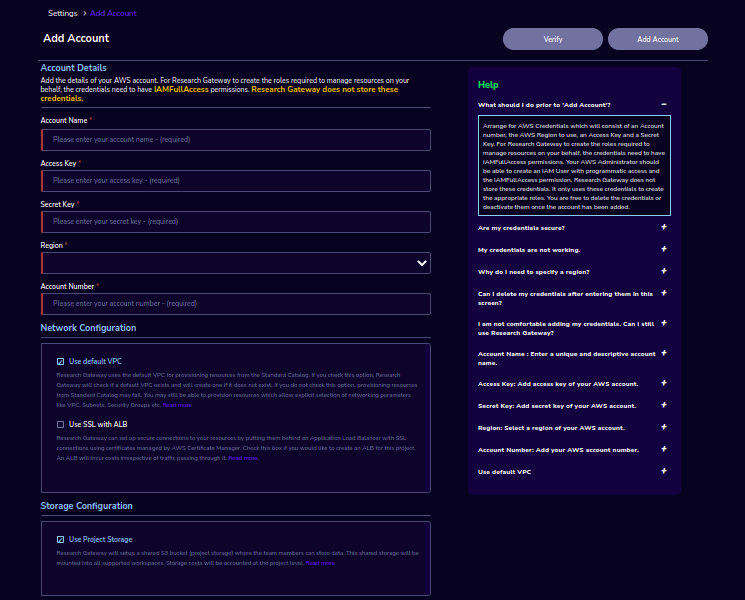
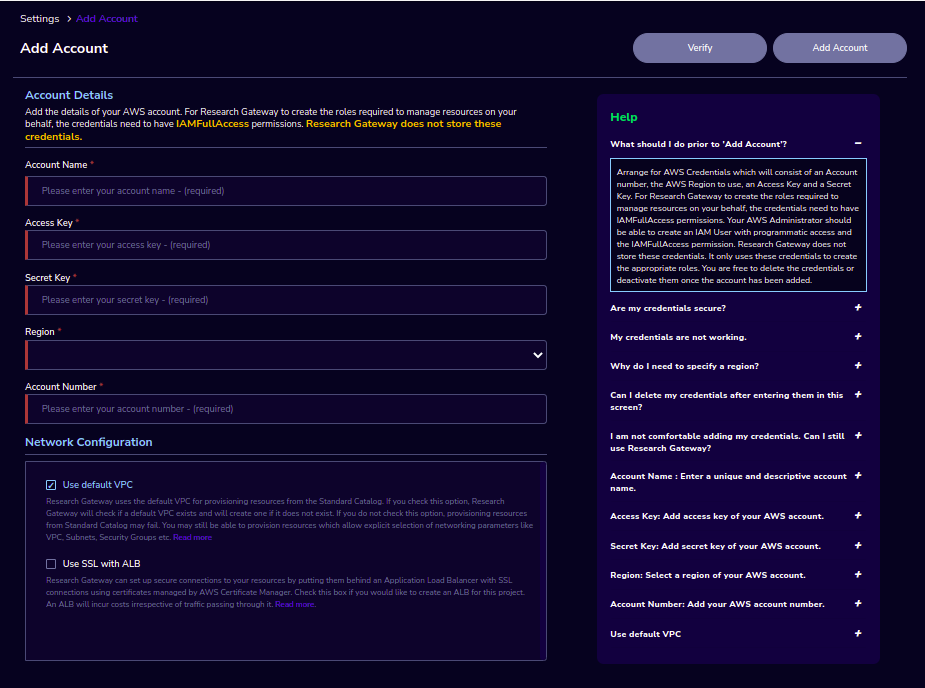
Changes for Optional Project Storage, Audit trail and Project events]

Changed region(s): [[0.0, 0.0, 0.9879, 1.0]]

diff --git a/source/GettingStarted.rst b/source/GettingStarted.rst
@@ -271,10 +271,7 @@ Fill the following details
      - <If you enable this option, Research Gateway will check if a default VPC exists and will create one if it does not exist. If you disable this option, provisioning resources from Standard Catalog may fail.>
    * - Use SSL with ALB
      - <If you enable this option, Research Gateway can set up secure connections to your resources by putting them behind an Application Load Balancer with SSL connections using certificates managed by AWS Certificate Manager. Check this box if you would like to create an ALB for this project. An ALB will incur costs irrespective of traffic passing through it.>	 
-   * - Storage Configuration
-     -
-   * - Use Project Storage	 
-     - <Research Gateway will setup a shared S3 bucket (project storage) where the team members can store data. This shared storage will be mounted into all supported workspaces. Storage costs will be accounted at the project level. Note: For now defaultly it will create the project storage.>
+  
 	 
 Click on the "Verify" button, it will check the provided details are valid or not. If details are valid, it will show verified account message with green color tick mark below the header otherwise it will throw an error message accordingly.
 
@@ -339,7 +336,7 @@ Secure connections to resources using ALB to RStudio and Nextflow-Advanced Produ
 2. When creating an account if you select the “Use SSL with ALB” check box it will create ALB. An ALB will incur costs irrespective of traffic passing through it. 
    Note: Refer :ref:`Adding AWS Accounts <Adding AWS Accounts>` for account creation.
    
- .. image:: images/ssl-alb.png 
+ .. image:: images/ssl-alb.png
  
 3. Once project creation is successful you can see the status about certificates and load balancer, target groups, listener, etc.. on the events page.
    Note: Refer :ref:`Adding a new project <Adding a new project>` for project creation.
@@ -380,6 +377,8 @@ Click on the  “+Add New” button in the My Project page or use details from :
 
 .. image:: images/Principal_CreateProject_3.png
 
+.. image:: images/Principal_CreateProject_4.png  
+
 Fill in the following details
 
 .. list-table:: 
@@ -404,6 +403,8 @@ Fill in the following details
      - <Create products in the service catalog from our standard catalog or bring your own service catalog portfolio> [optional] 
    * - Cost Control
      - <Research Gateway can automatically create budget consumption alerts and take actions like pausing the project (at 12%) or stopping the project (at 18%). Check this box to enable these actions.>
+   * - Use Project Storage 
+     - <Research Gateway will setup a shared S3 bucket (project storage) where the team members can store data. This shared storage will be mounted into all supported workspaces. Storage costs will be accounted at the project level. Note: For now defaultly it will create the project storage.>
 
 
 Click on the “Create Project” button. Added a new project successfully.
@@ -413,6 +414,7 @@ Click on the “Create Project” button. Added a new project successfully.
  a. While creating the project, if you select the "Standard Catalog" option it will create 7 products(Amazon Sagemaker, Amazon S3, Amazon EC2-Linux, Amazon EC2-Windows, RStudio, Cromwell Advanced and Nextflow Advanced). 
  b. If you select the "Bring all catalog items" option it will sync all the products which have the required launch permission in the portfolio of the AWS account.
  c. If you select the "Bring specific catalog items" option it will sync only the products which have the tag in the portfolio of the AWS account.
+ d. If you select the “Use Project Storage” option it will create project storage at the time of project creation, if you unselect the “Use Project Storage” option it will not create project storage.
 
 Project Storage
 ^^^^^^^^^^^^^^^
@@ -443,7 +445,11 @@ Cost Control
 
 .. image:: images/Principal_CreateProject_3.png
 
+.. image:: images/Principal_CreateProject_4.png 
+
 3. You can manually stop/pause/resume/Add Budget/Archive the project through the actions which are available on the project details page.
+
+.. note:: ProjectStorage can be deleted while archiving a project. You will now be prompted for deletion of the projectstorage when you archive a project. Select the checkbox if you want to delete the projectstorage bucket along with all of its contents.
 
 .. image:: images/Principal_ProjectDetails.png
 
@@ -471,7 +477,7 @@ Project Details
 4. Click on the “Resume” button which is available on the right side. The project status changed to “Active”. In the Active state, team members can launch new products from the catalog of Available Products.
 5. Click on the “Stop” button which is available on the right side. In a Stopped state, all underlying resources will be stopped and the user will not be able to perform actions on them but you are able to terminate the product. You need to manually start the resources except for the s3 product.
 6. Click on the “Sync” button which is available on the right side. It should sync the catalog. You can see related events in the events tab.
-7. Click on the "Archive" button which is available on the right side, it was routed to my projects page and showed the message “Archiving project started” and later the project card got removed.
+7. Click on the "Archive" button which is available on the right side, it was routed to my projects page and showed the message “Archiving project started” and later the project card got removed. ProjectStorage can be deleted while archiving a project. You will now be prompted for deletion of the projectstorage when you archive a project. Select the checkbox if you want to delete the projectstorage bucket along with all of its contents.
 8. Click on the “Add Budget” button which is available on the right side, it should show a dialog box where you can add budget value of whole number greater than 0.
 
 .. image:: images/Principal_ProjectDetails.png 
@@ -560,3 +566,4 @@ Once project is active, navigate to the project details tab and click on the “
  a. While creating the project, if you select the "Standard Catalog" option it will create 7 products(Amazon Sagemaker, Amazon S3, Amazon EC2-Linux, Amazon EC2-Windows, RStudio, Cromwell Advanced and Nextflow Advanced). 
  b. If you select the "Bring all catalog items" option it will sync all the products which have the required launch permission in the portfolio of the AWS account.
  c. If you select the "Bring specific catalog items" option it will sync only the products which have the tag in the portfolio of the AWS account.
+ d. If you select the “Use Project Storage” option it will create project storage at the time of project creation, if you unselect the “Use Project Storage” option it will not create project storage.

diff --git a/source/Features.rst b/source/Features.rst
@@ -378,6 +378,8 @@ Use details from :ref:`Appendix A<Appendix A>`  to create account. Once account 
 
 .. image:: images/Principal_CreateProject_3.png 
 
+.. image:: images/Principal_CreateProject_4.png
+
 My Projects page of the Research Gateway will list all the existing projects created along with other details.
 
 .. image:: images/Principal_MyProjects.png
@@ -395,6 +397,8 @@ Login to the Research Gateway. Click on the  “+Add New” button in the My Pro
 .. image:: images/Principal_CreateProject_2.png
 
 .. image:: images/Principal_CreateProject_3.png 
+
+.. image:: images/Principal_CreateProject_4.png
 
 Fill in the following details
 
@@ -420,7 +424,9 @@ Fill in the following details
      - <Create products in the service catalog from our standard catalog or bring your own service catalog portfolio> [optional] 
    * - Cost Control
      - <Research Gateway can automatically create budget consumption alerts and take actions like pausing the project (at 12%) or stopping the project (at 18%). Check this box to enable these actions.>
-   
+   * - Use Project Storage 
+     - <Research Gateway will setup a shared S3 bucket (project storage) where the team members can store data. This shared storage will be mounted into all supported workspaces. Storage costs will be accounted at the project level. Note: For now defaultly it will create the project storage.>
+
 Click on the “Create Project” button. Added a new project successfully.
 
 .. note::
@@ -428,7 +434,7 @@ Click on the “Create Project” button. Added a new project successfully.
  a. While creating the project, if you select the "Standard Catalog" option it will create 7 products(Amazon Sagemaker, Amazon S3, Amazon EC2-Linux, Amazon EC2-Windows, RStudio, Cromwell Advanced and Nextflow Advanced). 
  b. If you select the "Bring all catalog items" option it will sync all the products which have the required launch permission in the portfolio of the AWS account.
  c. If you select the "Bring specific catalog items" option it will sync only the products which have the tag in the portfolio of the AWS account.
-
+ d. If you select the “Use Project Storage” option it will create project storage at the time of project creation, if you unselect the “Use Project Storage” option it will not create project storage.
 
 Project Storage
 ---------------
@@ -459,7 +465,11 @@ Cost Control
 
 .. image:: images/Principal_CreateProject_3.png 
 
+.. image:: images/Principal_CreateProject_4.png
+
 3. You can manually Stop/Pause/Resume/Archive/Add Budget the project through the actions which are available on the project details page.
+
+.. note:: ProjectStorage can be deleted while archiving a project. You will now be prompted for deletion of the projectstorage when you archive a project. Select the checkbox if you want to delete the projectstorage bucket along with all of its contents.
 
 .. image:: images/Principal_ProjectDetails.png
 
@@ -483,7 +493,7 @@ Project Details Tab
 4. Click on the “Resume” button which is available on the right side. The project status changed to “Active”. In the Active state, team members can launch new products from the catalog of Available Products.
 5. Click on the “Stop” button which is available on the right side. In a Stopped state, all underlying resources will be stopped and the user will not be able to perform actions on them but you are able to terminate the product. You need to manually start the resources except for the s3 product.
 6. Click on the “Sync” button which is available on the right side. It should sync the catalog. You can see related events in the events tab.
-7. Click on the "Archive" button which is available on the right side, it was routed to my projects page and showed the message “Archiving project started” and later the project card got removed.
+7. Click on the "Archive" button which is available on the right side, it was routed to my projects page and showed the message “Archiving project started” and later the project card got removed.ProjectStorage can be deleted while archiving a project. You will now be prompted for deletion of the projectstorage when you archive a project. Select the checkbox if you want to delete the projectstorage bucket along with all of its contents.
 
 .. image:: images/Principal_ProjectDetails.png 
 
@@ -756,6 +766,8 @@ Once project is active, navigate to the project details tab and click on the “
  a. While creating the project, if you select the "Standard Catalog" option it will create 7 products(Amazon Sagemaker, Amazon S3, Amazon EC2-Linux, Amazon EC2-Windows, RStudio, Cromwell Advanced and Nextflow Advanced). 
  b. If you select the "Bring all catalog items" option it will sync all the products which have the required launch permission in the portfolio of the AWS account.
  c. If you select the "Bring specific catalog items" option it will sync only the products which have the tag in the portfolio of the AWS account.
+ d. If you select the “Use Project Storage” option it will create project storage at the time of project creation, if you unselect the “Use Project Storage” option it will not create project storage.
+
 
 End of Day - Email report on  the running instances
 ^^^^^^^^^^^^^^^^^^^^^^^^^^^^^^^^^^^^^^^^^^^^^^^^^^^^
@@ -814,7 +826,11 @@ Click on the "Archive" button which is available on the right side, it was route
 
 .. image:: images/Principal_ProjectDetails.png
 
-.. image:: images/Principal_Project_ArchiveProject_PopUp.png
+.. image:: images/ProjectArchive_FirstCheckboxSelected.png
+
+ProjectStorage can be deleted while archiving a project. You will now be prompted for deletion of the projectstorage when you archive a project. Select the checkbox if you want to delete the projectstorage bucket along with all of its contents.
+
+.. image:: images/ProjectArchive_BothCheckboxSelected.png
 
 **Add Budget Action**
 
@@ -1256,7 +1272,7 @@ d. **Filter** - We have following filter options:
 2. When creating an account if you select the “Use SSL with ALB” check box it will create ALB. An ALB will incur costs irrespective of traffic passing through it. 
    Note: Refer :ref:`Adding AWS Accounts <Adding AWS Accounts>` for account creation.
    
- .. image:: images/ssl-alb.png 
+ .. image:: images/ssl-alb.png
  
 3. Once project creation is successful you can see the status about certificates and load balancer, target groups, listener, etc.. on the events page.
    Note: Refer :ref:`Adding a new project <Adding a new project>` for project creation.
